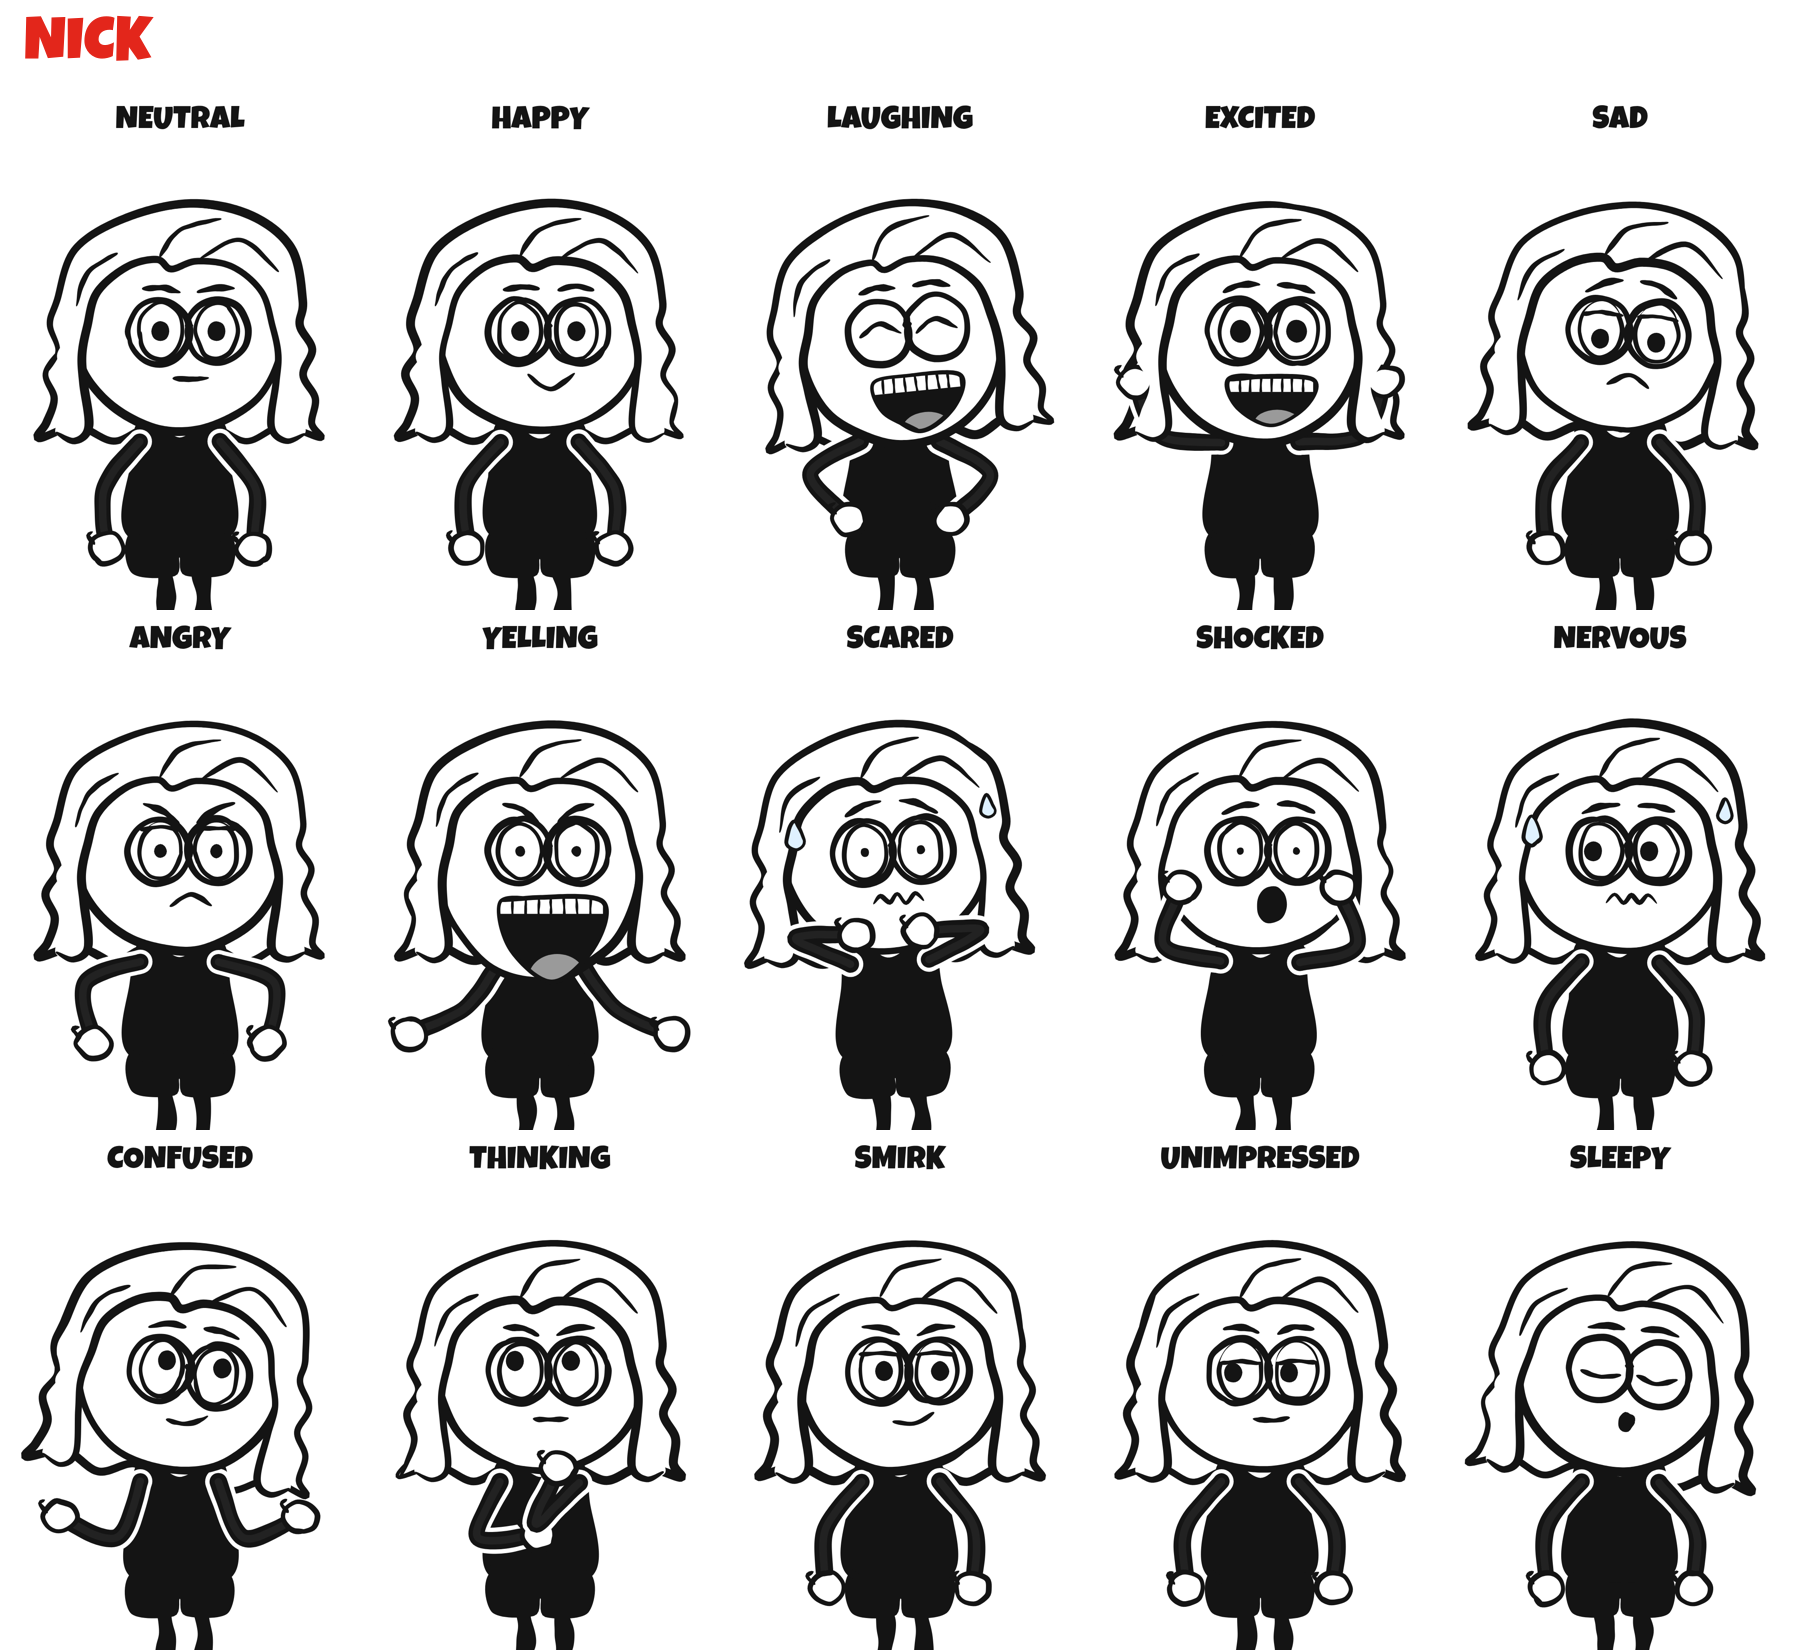
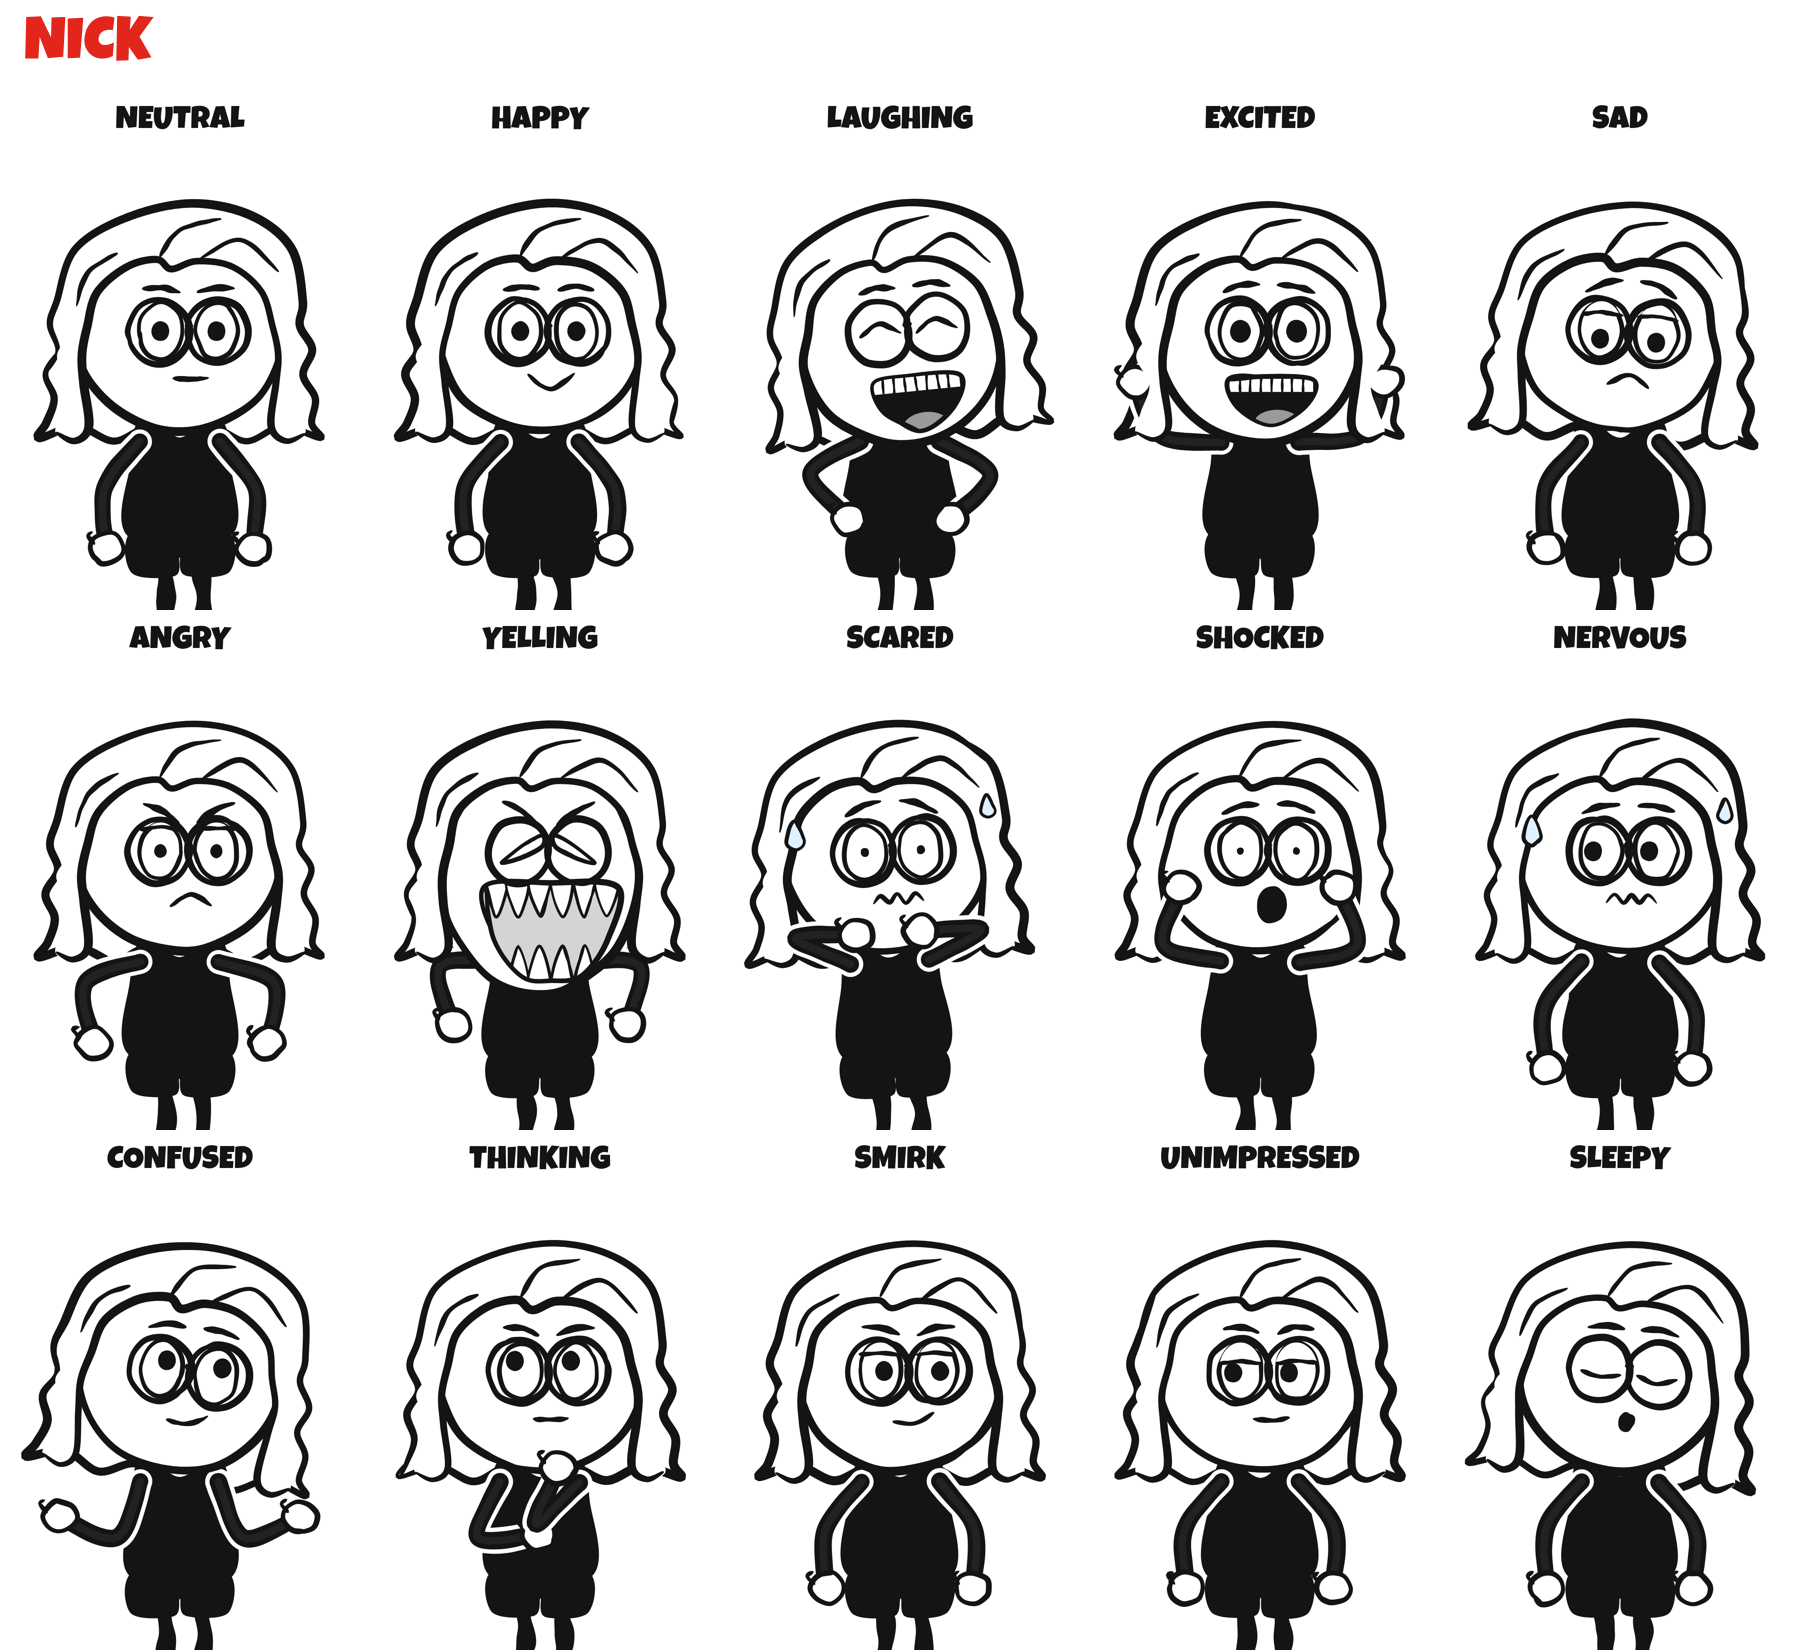
Yelling is now furious: slit eyes and a shark-tooth mouth
New squint eye and 'rage' mouth in the shared rig (jaw stretches further
for it). MrBeast's moustache rides up and the soul patch hides behind the
open mouth.

Claude-Session: https://claude.ai/code/session_01BoxvgZ1TpRreVfD9rN3XD5

Changed region(s): [[0.2178, 0.4945, 0.3733, 0.6491]]

diff --git a/web/characters.js b/web/characters.js
@@ -29,6 +29,13 @@ const Chars = (() => {
     for (const side of [-1, 1]) {
       const ex = fx + side * gap;
       const lid = p.lid ?? 0;
+      if (p.squint) {   // rage: a narrow slanted slit, low at the inner corner, no pupil
+        const o = ex - side * rx, i = ex + side * rx * 0.9;
+        const slit = [[o, y - 22 * size], [ex, y - 6 * size], [i, y + 16 * size], [ex, y + 10 * size], [o, y - 6 * size]];
+        fill(ctx, slit, W, 0.4);
+        outline(ctx, slit, { w: 6 * size });
+        continue;
+      }
       if (lid >= 1) {   // closed: a curved line
         const up = p.happy ? -1 : 1;   // happy: ^ arcs (laughing); otherwise gently closed
         stroke(ctx, [[ex - rx, y + 4 * size], [ex, y + (4 + 8 * up) * size - (p.happy ? 8 * size : 0)], [ex + rx, y + 4 * size]], { w: 7 * size });
@@ -115,7 +122,7 @@ const Chars = (() => {
     if (v.lip > 0.5) stroke(ctx, [[x - w * 0.8, y + teethH * 0.8], [x, y + teethH], [x + w * 0.8, y + teethH * 0.8]], { w: 7 * s, color });
   }
 
-  // kinds: flat | smile | smirk | o | wobbly | yell | grin | frown | talk (uses p.viz)
+  // kinds: flat | smile | smirk | o | wobbly | yell | rage | grin | frown | talk (uses p.viz)
   function mouth(ctx, x, y, p, size = 1, color = INK) {
     const k = p.mouth ?? 'flat', open = p.open ?? 0, s = size;
     if (k === 'talk' && p.viz) return talkMouth(ctx, x, y, p.viz, s, color);
@@ -136,6 +143,27 @@ const Chars = (() => {
       blob(ctx, x, y + r * 0.3, r * 0.8, r, { fill: INK, w: 5 * s, n: 10 });
     } else if (k === 'yell') {
       openMouth(ctx, x, y, (60 + 30 * open) * s, (40 + 105 * open) * s, s);
+    } else if (k === 'rage') {
+      // furious anime yell: huge mouth, jagged shark teeth top and bottom
+      const w2 = (78 + 22 * open) * s, h = (70 + 70 * open) * s;
+      const pts = [[x - w2, y], [x, y - 8 * s], [x + w2, y], [x + w2 * 0.86, y + h * 0.55],
+                   [x + w2 * 0.45, y + h * 0.95], [x, y + h], [x - w2 * 0.45, y + h * 0.95], [x - w2 * 0.86, y + h * 0.55]];
+      fill(ctx, pts, '#d4d4d4', 1);
+      ctx.save();
+      ctx.beginPath(); ctx.moveTo(pts[0][0], pts[0][1]);
+      for (const q of Brush.spline(pts, true, 6)) ctx.lineTo(q[0], q[1]);
+      ctx.clip();
+      const n = 6, tw = (w2 * 2) / n;
+      for (let i = 0; i < n; i++) {   // top teeth point down, bottom teeth point up (offset half a tooth)
+        const tx = x - w2 + i * tw;
+        const top = [[tx, y - 12 * s], [tx + tw, y - 12 * s], [tx + tw / 2, y + h * 0.32]];
+        fill(ctx, top, W, 0.3); outline(ctx, top, { w: 4 * s, closed: true });
+        const bx = tx + tw / 2;
+        const bot = [[bx - tw / 2, y + h + 10 * s], [bx + tw / 2, y + h + 10 * s], [bx, y + h * 0.62]];
+        fill(ctx, bot, W, 0.3); outline(ctx, bot, { w: 4 * s, closed: true });
+      }
+      ctx.restore();
+      outline(ctx, pts, { w: 8 * s });
     } else if (k === 'grin') {
       // wide sinister smile: upturned corners, teeth showing
       const w2 = 62 * s, h = (26 + 30 * open) * s;

diff --git a/web/cameos.js b/web/cameos.js
@@ -42,14 +42,16 @@ const Cameos = (() => {
       o.back?.(ctx);   // behind the head: hoods, long hair
       // a yell drops the jaw: the head stretches down and the mouth rides up
       // a little, so even a wide-open mouth stays inside the chin
-      const open = p.mouth === 'yell' ? (p.open ?? 0) : 0, jaw = 46 * open;
+      const rage = p.mouth === 'rage';
+      const open = p.mouth === 'yell' || rage ? (p.open ?? 0) : 0, jaw = (rage ? 60 : 46) * open;
       blob(ctx, 0, jaw * 0.5, RX - jaw * 0.1, RY + jaw * 0.5, { fill: o.skin ?? W, w: 11, n: 18, jit: 1.8 });
       if (o.beard) { ctx.save(); ctx.translate(0, jaw); o.beard(ctx); ctx.restore(); }
       o.hair?.(ctx);
       eyes(ctx, fx, -6, p, 1, !!o.lashes);
       brows(ctx, fx, -62, p, 1, o.browW ?? 9);
-      mouth(ctx, fx + 4, 62 - 18 * open + jaw * 0.5, p, open ? 0.85 : 1);
-      o.front?.(ctx, fx);
+      if (rage) mouth(ctx, fx + 4, 34 + jaw * 0.2, p, 0.95);   // fills the lower half of the face
+      else mouth(ctx, fx + 4, 62 - 18 * open + jaw * 0.5, p, open ? 0.85 : 1);
+      o.front?.(ctx, fx, rage);
       o.hat?.(ctx);
       if (p.sweat) { sweat(ctx, -126, -30); sweat(ctx, 150, -60, 0.8); }
     };
@@ -121,11 +123,13 @@ const Cameos = (() => {
     fill(ctx, shape, FACIAL_HAIR, 1);
     outline(ctx, shape, { w: 7 });
   };
-  const goateeFront = (ctx, fx) => {
+  const goateeFront = (ctx, fx, rage) => {
+    if (rage) ctx.translate(0, -12);   // moustache rides up over the huge open mouth
     const m = [[fx - 74, 64], [fx - 62, 40], [fx - 30, 28], [fx, 34], [fx + 30, 28], [fx + 62, 40], [fx + 74, 64],
                [fx + 54, 52], [fx + 26, 46], [fx, 50], [fx - 26, 46], [fx - 54, 52]];
     fill(ctx, m, FACIAL_HAIR, 1);
     outline(ctx, m, { w: 6 });
+    if (rage) return ctx.translate(0, 12);   // soul patch is hidden behind the open mouth
     const patch = [[fx - 11, 106], [fx + 11, 106], [fx + 4, 113], [fx, 117], [fx - 4, 113]];
     fill(ctx, patch, FACIAL_HAIR, 0.5);
     outline(ctx, patch, { w: 5 });

diff --git a/web/emotions.js b/web/emotions.js
@@ -35,7 +35,7 @@ const Emotions = (() => {
     excited:   { pupil: 15, mouth: 'yell', open: 0.35, brow: -0.6, ...both([178, -372], 'down') },   // fists pumped
     sad:       { mouth: 'frown', brow: -1, lid: 0.35, lookY: 0.6, tilt: 0.07 },
     angry:     { mouth: 'frown', brow: 1, pupil: 9, lid: 0.15, ...both([124, -170], 'out') },   // fists at hips
-    yelling:   { mouth: 'yell', open: 0.9, brow: 1, pupil: 7, ...both([196, -176], 'down') },   // fists flung out low
+    yelling:   { mouth: 'rage', open: 1, squint: true, brow: 1.3, ...both([124, -196], 'out') },   // furious: slit eyes, shark teeth, fists clenched
     scared:    { mouth: 'wobbly', brow: -1, pupil: 6, sweat: true, lean: -0.05, ...both([46, -328], 'out', true) },   // fists pulled in under the chin, elbows out
     shocked:   { mouth: 'o', open: 1, brow: -0.7, pupil: 5, ...both([112, -392], 'down', true) },   // hands on cheeks
     nervous:   { mouth: 'wobbly', brow: -0.6, lookX: -0.8, sweat: true },
